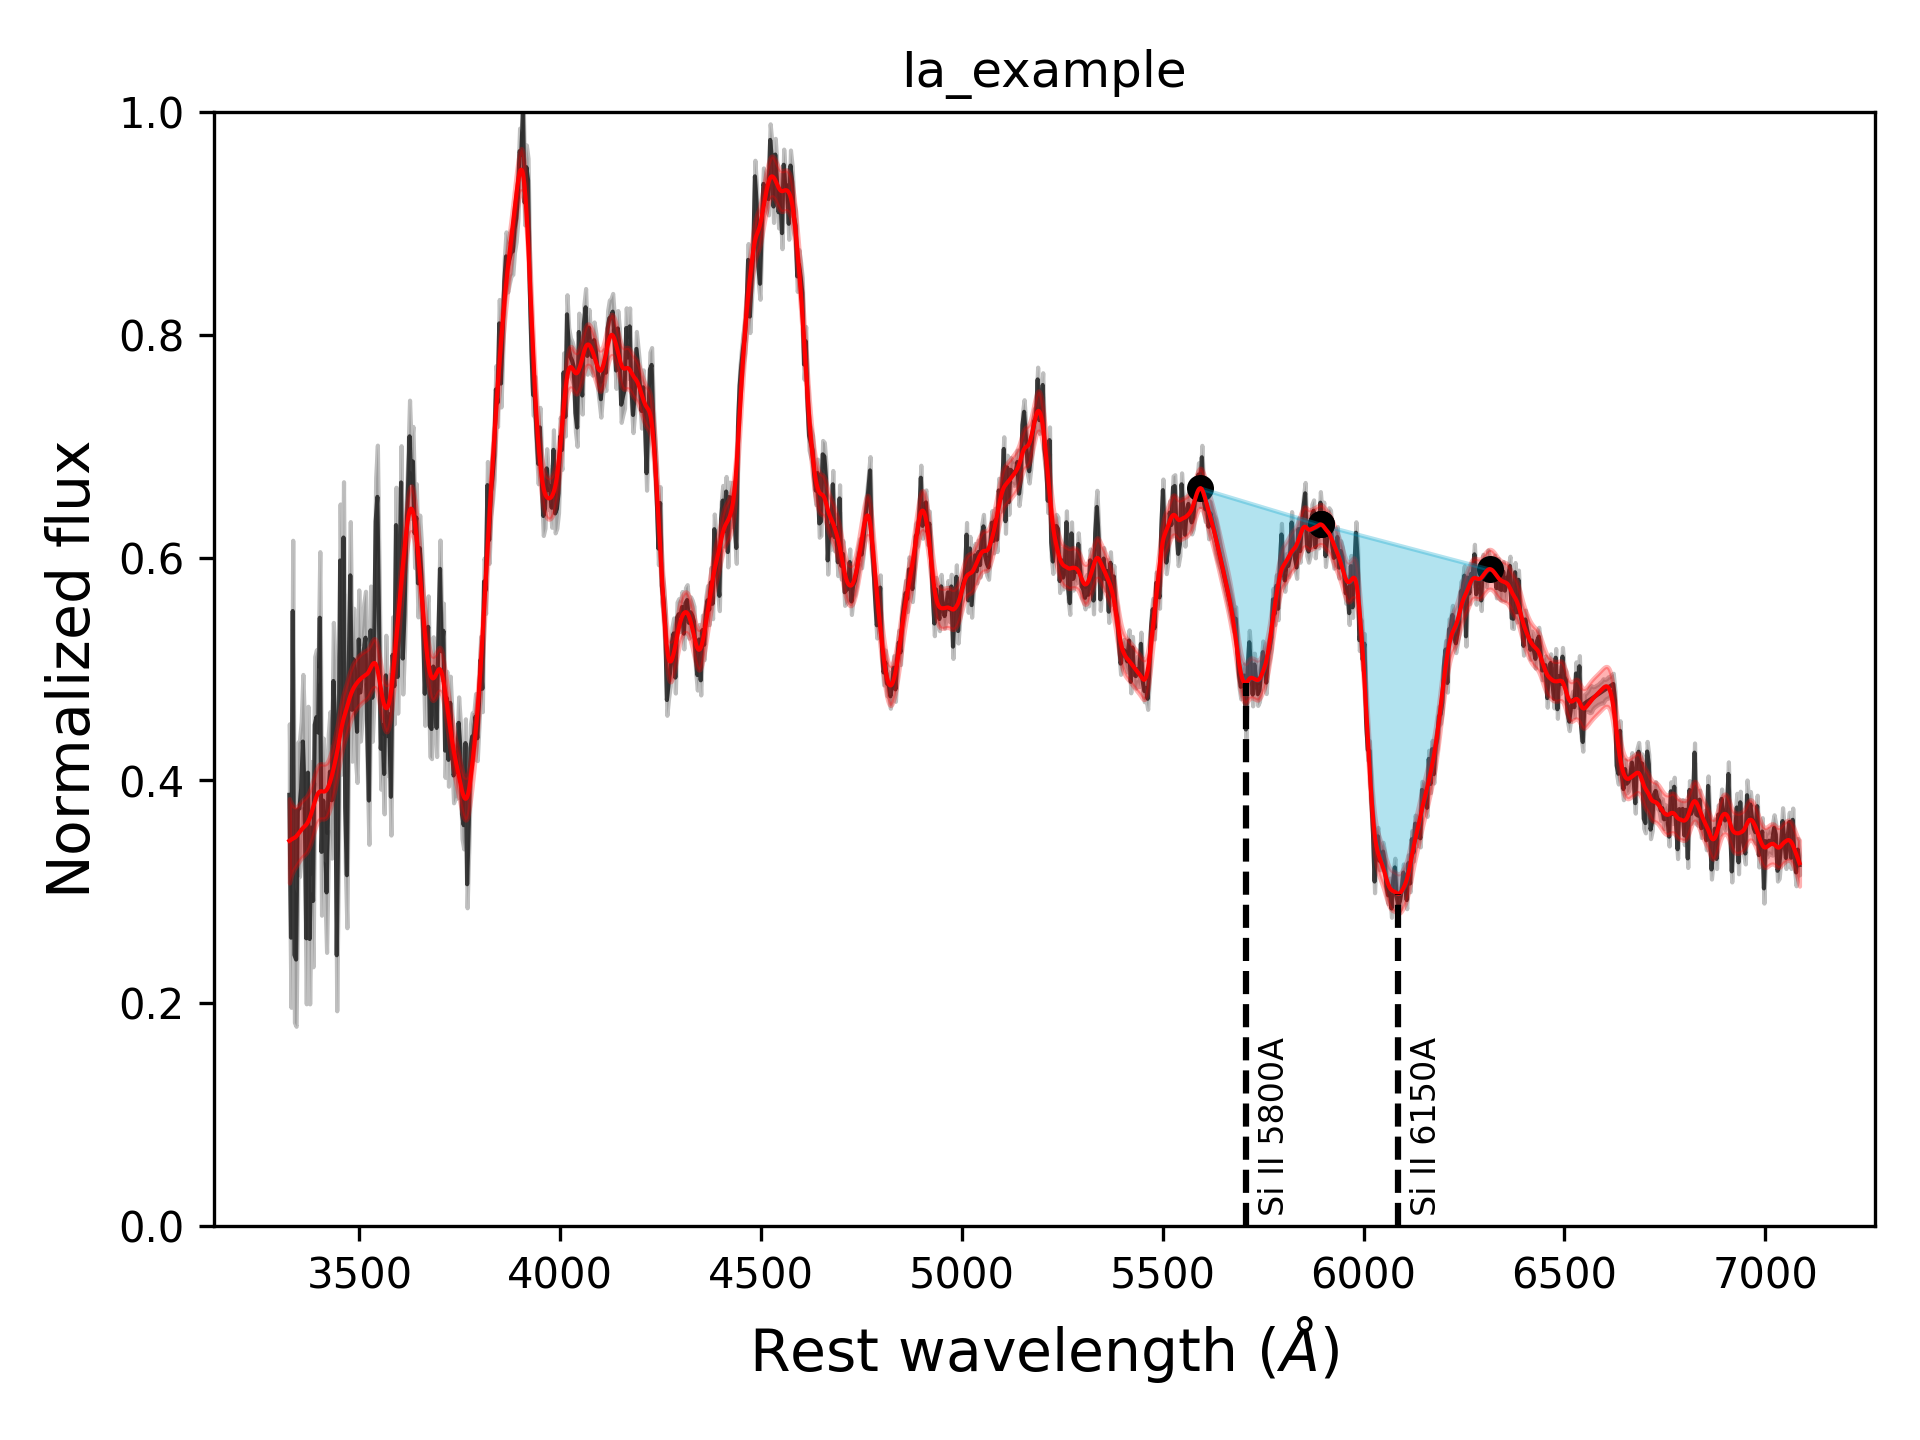
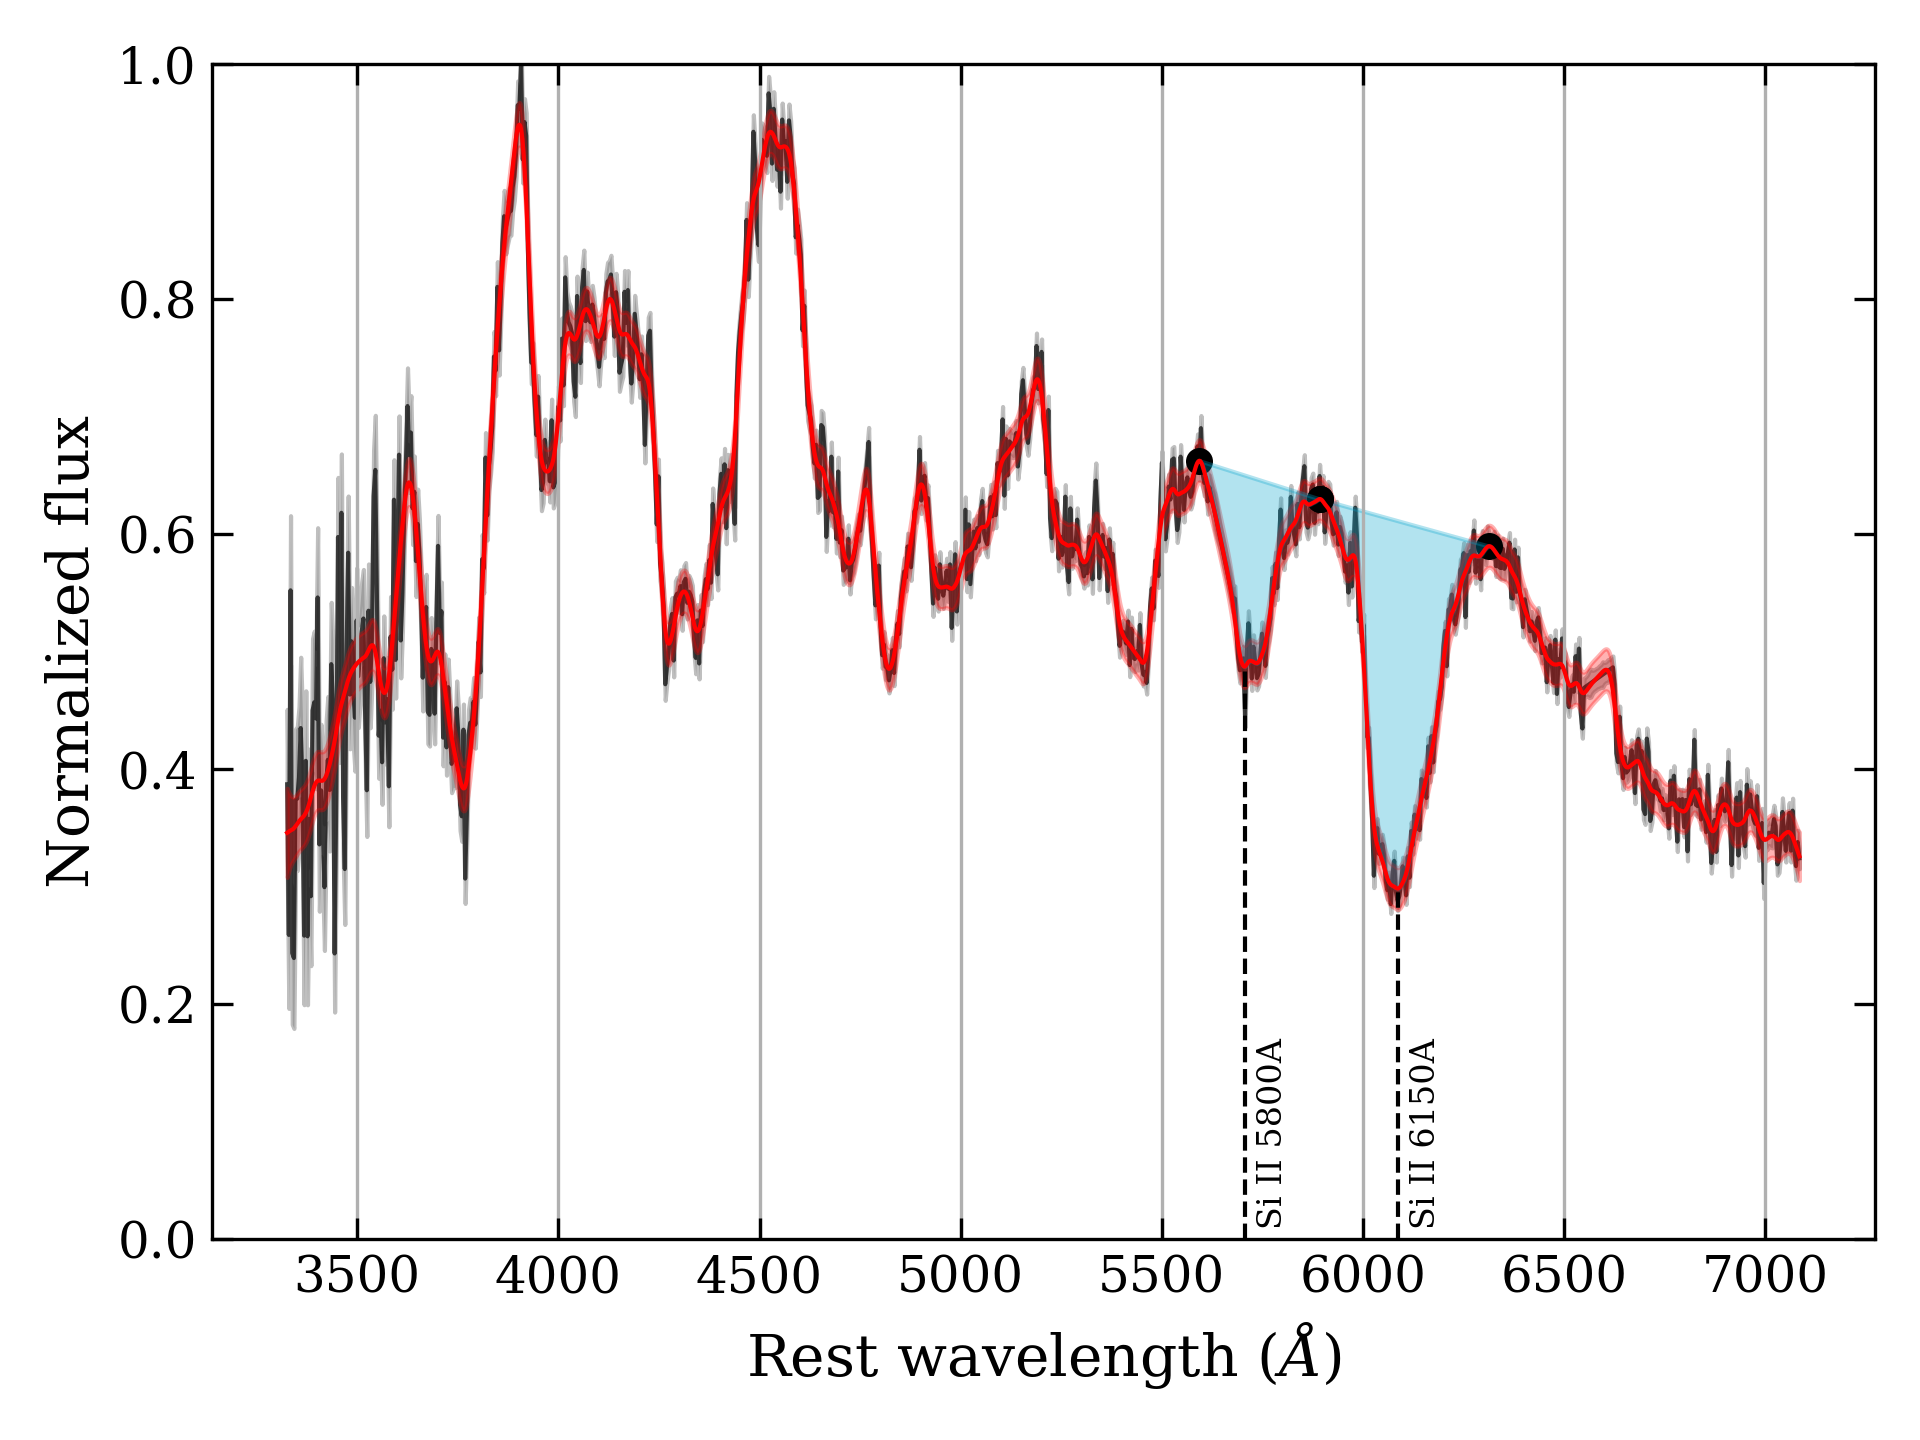
use SpectrumCore plot setup

diff --git a/spextractor/spextractor.py b/spextractor/spextractor.py
@@ -3,6 +3,7 @@ import matplotlib.pyplot as plt
 
 from SpectrumCore.Spectrum import Spectrum
 from SpectrumCore.util.interpolate import interp_linear
+from SpectrumCore.plot import basic_spectrum
 
 from .util.log import setup_log
 from .util.manual import ManualRange
@@ -332,7 +333,7 @@ class Spextractor:
 
     def _setup_plot(self):
         """Setup the spectrum plot."""
-        self._fig, self._ax = plt.subplots()
+        self._fig, self._ax = basic_spectrum()
 
         self._ax.set_xlabel(r'$\mathrm{Rest\ wavelength}\ (\AA)$', size=14)
         self._ax.set_ylabel(r'$\mathrm{Normalized\ flux}$', size=14)

diff --git a/example/full_example.py b/example/full_example.py
@@ -54,8 +54,6 @@ Retrieve the spectrum plot if it was created.
 '''
 fig, ax = spex.plot
 
-ax.set_title('Ia_example')
-
 plt.tight_layout()
 fig.savefig('Ia_example.png', dpi=300)
 

diff --git a/example/blue_edge_example.py b/example/blue_edge_example.py
@@ -32,8 +32,6 @@ print(f'vsi = {vsi:.3f} +- {vsi_err:.3f}')
 
 fig, ax = spex.plot
 
-ax.set_title('Ia_example')
-
 plt.tight_layout()
 fig.savefig('Ia_example.png', dpi=300)
 

diff --git a/example/manual_feature_example.py b/example/manual_feature_example.py
@@ -37,8 +37,6 @@ print(f'vsi = {vsi:.3f} +- {vsi_err:.3f}')
 
 fig, ax = spex.plot
 
-ax.set_title('Ia_example')
-
 plt.tight_layout()
 fig.savefig('Ia_example.png', dpi=300)
 
